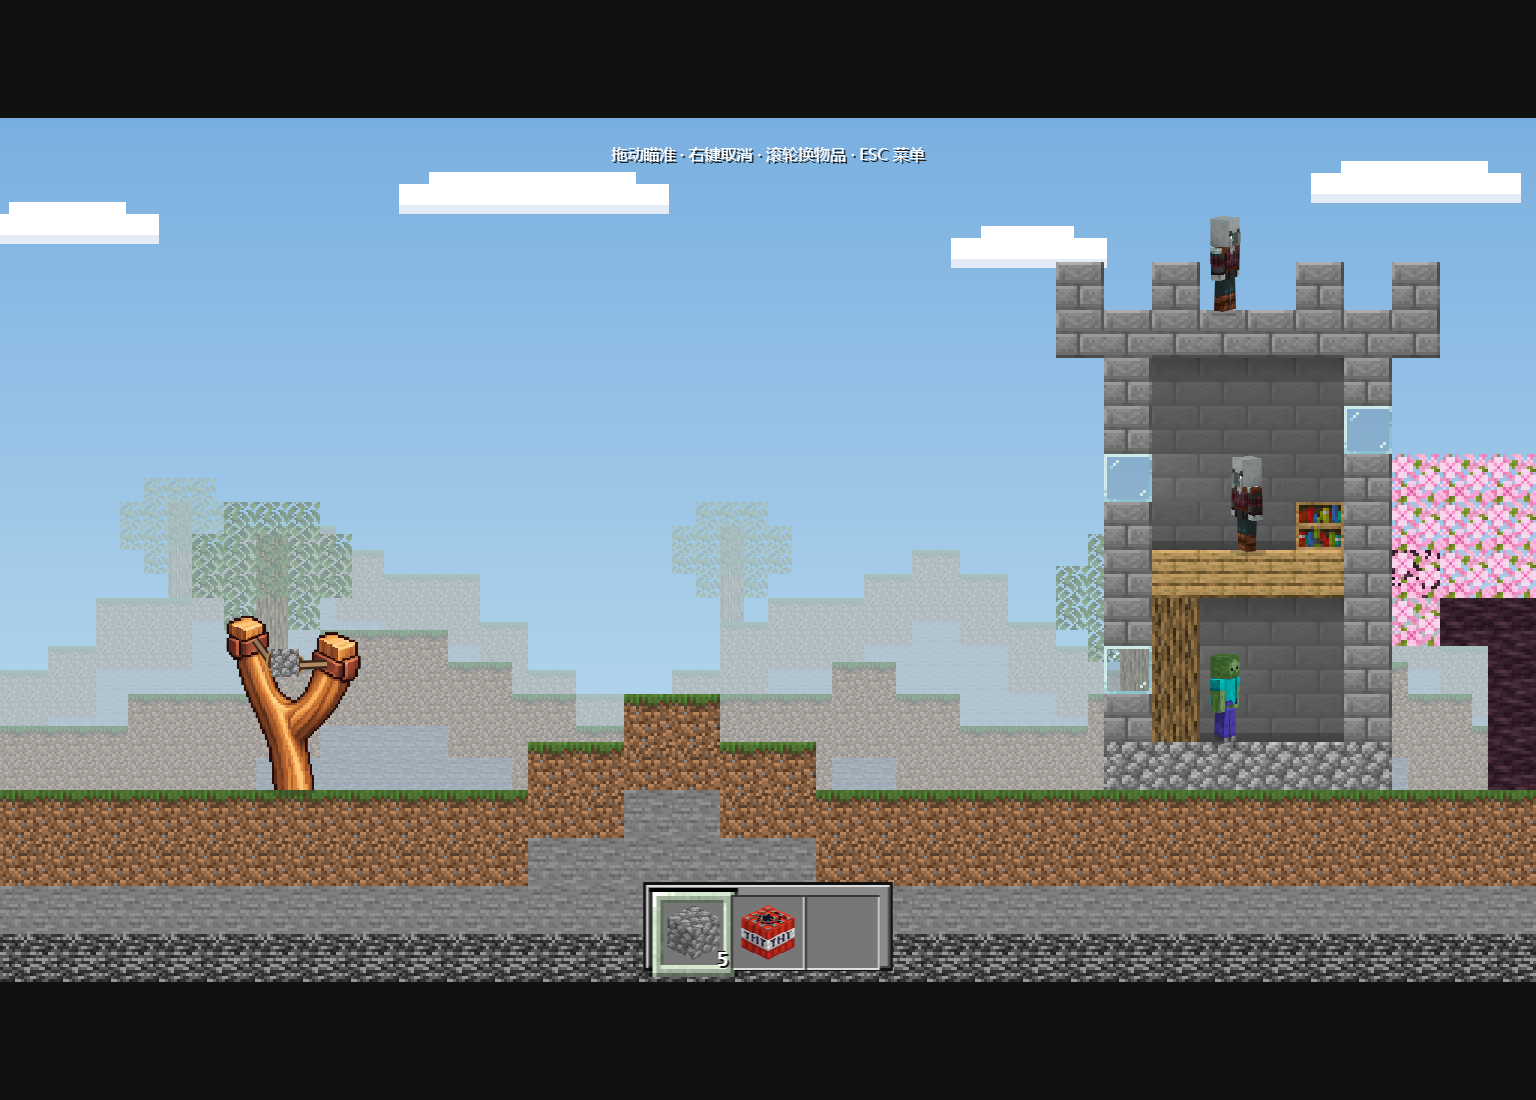
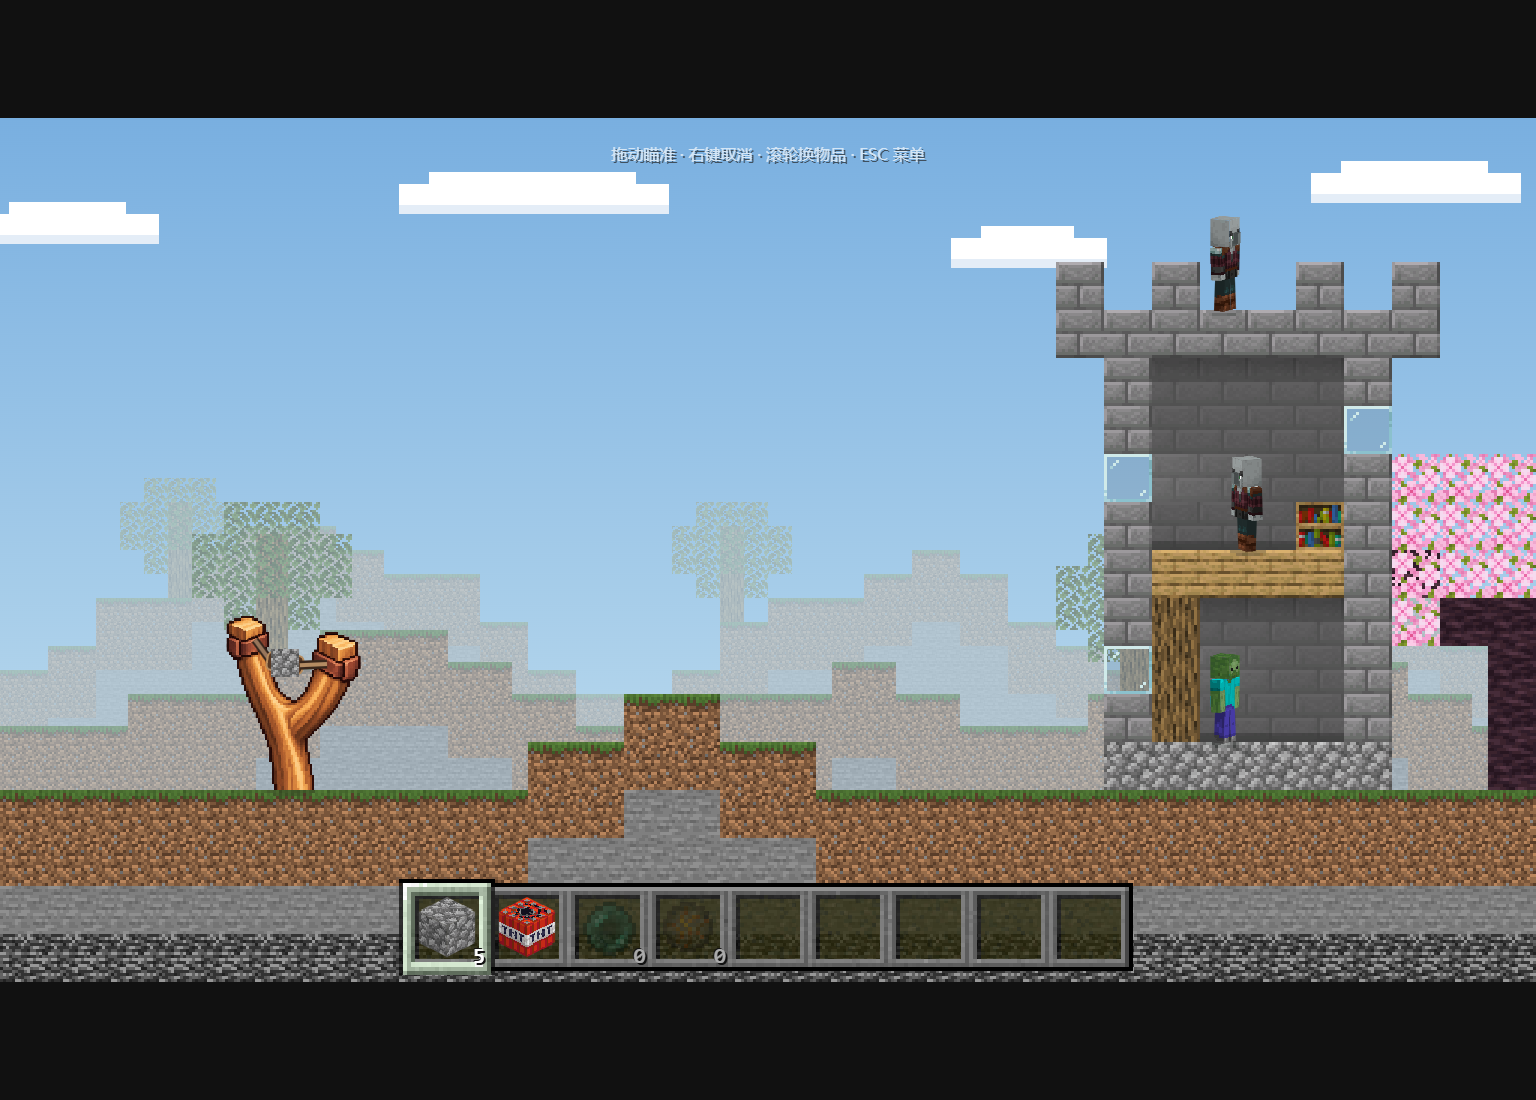
Restore fixed nine-slot hotbar, add paged menus and repair zombie torso UVs

Changed region(s): [[0.25, 0.7727, 0.75, 0.8964], [0.4062, 0.1236, 0.5938, 0.1545], [0.7812, 0.6182, 0.8125, 0.6491]]

diff --git a/style.css b/style.css
@@ -1,4 +1,4 @@
-*{box-sizing:border-box}
+*{box-sizing:border-box}
 html,body{margin:0;width:100%;height:100%;overflow:hidden;background:#111;color:#fff;font-family:"Microsoft YaHei",system-ui,sans-serif}
 button{font:inherit;color:#fff;cursor:pointer;border-radius:0;border:4px solid transparent;border-image:url('assets/gui/button.png') 2 fill / 4px / 0 stretch;text-shadow:2px 2px #303030;background:#777;image-rendering:pixelated}
 button:hover:not(:disabled){border-image-source:url('assets/gui/button_highlighted.png');color:#ffffa0}
@@ -16,20 +16,20 @@ canvas{display:block;width:100%;height:100%;touch-action:none;cursor:crosshair;i
 .ball:hover{background:#fff2}.ball.selected:before{content:"";position:absolute;inset:-10%;background:url('assets/gui/hotbar_selection.png') center/100% 100%;pointer-events:none;image-rendering:pixelated}
 .ball img{width:100%;height:100%;object-fit:contain;image-rendering:pixelated}
 .ball.empty img,.ball.empty .stack-count{visibility:hidden}
+.ball.depleted img{opacity:.38;filter:brightness(.55)}.ball.depleted .stack-count{color:#aaa}
 .stack-count{position:absolute;z-index:3;right:3%;bottom:0;font:700 clamp(10px,1.4cqw,22px)/1 monospace;text-shadow:2px 2px #111,-1px -1px #111}
 .menu-screen,.result{position:absolute;inset:0;z-index:20;display:grid;place-items:center;background:#0009}
 #levelMenu,#leaderboardMenu{background:linear-gradient(#000a,#000a),url('assets/textures/dirt.png') repeat;background-size:auto,64px 64px;image-rendering:pixelated}
-.campaign-panel{width:76%;text-align:center}
+.campaign-panel{width:84%;max-width:1120px;text-align:center}
 h1{margin:0;font-size:clamp(24px,4.2cqw,64px);font-weight:900;letter-spacing:.15cqw;text-shadow:3px 3px #3f3f3f,5px 5px #151515}
 .menu-subtitle,.menu-help{font-size:clamp(9px,1.1cqw,17px);color:#ddd;line-height:1.5;text-shadow:2px 2px #111}
 .menu-subtitle{margin:1cqw 0 2cqw;color:#fff}.menu-help{margin:2cqw 0 0;color:#bbb}
-.level-grid{display:grid;grid-template-columns:1fr 1fr;gap:.7cqw}
-.level-card{min-height:5.2cqw;padding:.55cqw 1cqw;display:grid;grid-template-columns:2.8cqw 1fr auto;align-items:center;gap:.2cqw .6cqw;text-align:left}
-.level-card>span:not(.level-number){grid-column:2 / 4;font-size:clamp(9px,.9cqw,14px);color:#ddd}.level-card .level-number{grid-row:1 / 3}
-.level-card small{grid-column:3;grid-row:1}
-.level-card strong{font-size:clamp(11px,1.45cqw,22px);font-weight:500}.level-card span{font-size:clamp(9px,1.05cqw,16px);line-height:1.5}
-.level-card .level-number{font-family:monospace;font-size:clamp(12px,1.65cqw,25px);color:#ddd}.level-card:disabled .level-number{color:#888}
-.level-card small{font-size:clamp(9px,1.05cqw,16px);text-align:right;color:#ffffa0}.level-card:disabled small{color:#888}
+.level-grid{display:grid;grid-template-columns:repeat(3,minmax(0,1fr));gap:10px}
+.level-card{padding:10px 48px 10px 10px;display:grid;grid-template-columns:25px minmax(0,1fr);grid-template-rows:auto auto;align-items:center;gap:5px 8px;text-align:left}
+.level-card strong{grid-column:2;grid-row:1;min-width:0;overflow:hidden;text-overflow:ellipsis;white-space:nowrap;font-size:clamp(12px,1.25cqw,18px);font-weight:500}
+.level-card .personal-best{grid-column:2;grid-row:2;justify-self:end;margin-right:-38px;font-size:clamp(11px,.95cqw,14px);color:#ffffa0;white-space:nowrap}
+.level-card .level-number{grid-column:1;grid-row:1 / 3;font-family:monospace;font-size:20px;color:#ddd}.level-card:disabled .level-number{color:#888}
+.level-card small{display:none}.level-card:disabled .personal-best{color:#aaa}
 .pause-panel{width:32%;min-width:200px;display:grid;gap:1cqw;text-align:center}
 .pause-panel h2{margin:0 0 2cqw;font-size:clamp(18px,2.5cqw,36px);text-shadow:3px 3px #222}
 .pause-panel button{padding:.7cqw 1.5cqw;font-size:clamp(12px,1.4cqw,20px)}
@@ -39,24 +39,22 @@ h1{margin:0;font-size:clamp(24px,4.2cqw,64px);font-weight:900;letter-spacing:.15
 .reward-icon{display:block;width:clamp(42px,6cqw,90px);height:clamp(42px,6cqw,90px);margin:1.5cqw auto;object-fit:contain;image-rendering:pixelated}
 .result-buttons{display:grid;gap:.8cqw;justify-content:stretch;max-width:26cqw;min-width:150px;margin:2cqw auto 0}.result-buttons button{padding:.5cqw 1cqw;font-size:clamp(10px,1.2cqw,18px)}
 .hidden,[hidden]{display:none!important}
-.inventory{width:19%;max-width:250px}
-.ballbar{grid-template-columns:repeat(3,1fr);aspect-ratio:62/22;padding:4%;background:#8b8b8b;border:3px solid #111;box-shadow:inset 2px 2px #ddd,inset -2px -2px #444}
-.ball{box-shadow:inset 2px 2px #373737,inset -2px -2px #ddd;background:#777}
-.level-card-wrap{position:relative;min-width:0}.level-card-wrap>.level-card{width:100%;height:100%;min-height:5.2cqw;padding-bottom:1.6cqw;grid-template-columns:2.8cqw minmax(0,1fr) auto}
-.level-card strong{min-width:0;overflow:hidden;text-overflow:ellipsis;white-space:nowrap}
-.level-card .personal-best{grid-column:3;grid-row:1;font-size:clamp(9px,.95cqw,15px);color:#ffffa0;white-space:nowrap}
-.level-card-wrap>.level-card>strong{grid-column:2;grid-row:1;text-align:left}
-.level-card-wrap>.level-card>.personal-best{grid-column:3;grid-row:1;text-align:right}
-.level-card-wrap>.level-card>.level-number{grid-column:1;grid-row:1 / 3}
-.level-card small{grid-column:2;grid-row:2;text-align:left;color:#bbb}
-.loadout-info{position:absolute;right:.7cqw;bottom:.35cqw;padding:.1cqw .7cqw;font-size:clamp(10px,.85cqw,14px);z-index:1}
-.loadout-tooltip{display:none;position:absolute;bottom:calc(100% + 4px);left:0;right:0;z-index:40;padding:10px;background:#17101ff5;border:2px solid #5a386e;box-shadow:2px 2px #000;color:#fff;font-size:clamp(11px,1cqw,16px);line-height:1.6;white-space:pre-line;text-align:left;pointer-events:none}
-.show-loadout .loadout-tooltip,.level-card:focus-visible~.loadout-tooltip,.loadout-info:focus-visible~.loadout-tooltip{display:block}
-@media (hover:hover){.level-card-wrap:hover .loadout-tooltip{display:block}}
+.level-card-wrap{position:relative;min-width:0}.level-card-wrap>.level-card{width:100%;height:100%;min-height:76px}
+.loadout-info{position:absolute;right:6px;top:8px;padding:3px 4px;font-size:11px;min-height:28px;z-index:1}
+.loadout-tooltip{display:none;position:absolute;bottom:calc(100% + 5px);right:0;width:max-content;max-width:min(240px,70vw);z-index:40;padding:8px 12px;background:#17101ff5;border:2px solid #5a386e;box-shadow:2px 2px #000;color:#fff;font-size:13px;line-height:1.5;text-align:left}
+.loadout-tooltip>div{display:flex;align-items:center;gap:8px;white-space:nowrap}.loadout-tooltip img{width:24px;height:24px;object-fit:contain;image-rendering:pixelated}
+.show-loadout .loadout-tooltip{display:block}.show-loadout{z-index:30}
+.level-card-wrap:nth-child(-n+3) .loadout-tooltip{top:calc(100% + 5px);bottom:auto}
+.page-controls{display:flex;align-items:center;justify-content:center;gap:16px;margin-top:14px;font-size:14px}.page-controls button{min-width:40px;min-height:32px;padding:0 10px}
+.campaign-panel>h1{font-size:clamp(24px,2.7cqw,40px)}.campaign-panel>.menu-subtitle{margin:6px 0 16px}
+.start-screen{position:absolute;inset:0;z-index:20;cursor:pointer;background:linear-gradient(90deg,#0b1c2522,transparent 70%);touch-action:manipulation;outline-offset:-6px}
+.start-title{position:absolute;left:7%;top:19%;text-align:left;pointer-events:none}.start-title h1{font-size:clamp(36px,6.2cqw,94px);text-shadow:4px 4px #282828,7px 7px #111;letter-spacing:.15cqw}.start-title p{margin:16px 0;font-size:clamp(13px,1.7cqw,24px);text-shadow:2px 2px #222}
+.start-prompt{position:absolute;left:0;right:0;bottom:12%;margin:0;text-align:center;font-size:clamp(14px,1.7cqw,24px);text-shadow:2px 2px #111;animation:start-pulse 2.5s ease-in-out infinite;pointer-events:none}
+@keyframes start-pulse{50%{opacity:.55}}@media(prefers-reduced-motion:reduce){.start-prompt{animation:none}}
 #resultTiming{color:#ffffa0;font-variant-numeric:tabular-nums}
 .fullscreen-feedback{position:fixed;left:10%;right:10%;bottom:18%;z-index:100;padding:12px;background:#202020ef;border:2px solid #888;text-align:center;font-size:14px;line-height:1.6}
 #loadState{position:absolute;inset:0;display:grid;place-items:center;padding:35px;background:#202020;z-index:50;text-align:center;line-height:1.8}#loadState.error{color:#ffd3ce;background:#311c1c}
-@container (max-width:800px){.campaign-panel{width:90%}.level-card{min-height:5.7cqw;padding:.5cqw 1cqw;grid-template-columns:3.2cqw 1.2fr 1.35fr .8fr}.menu-subtitle{margin:.5cqw 0 1.5cqw}.menu-help{margin:1cqw 0 0}.pause-panel{gap:1.5cqw}}
+@container (max-width:800px){.campaign-panel{width:94%}.menu-help{margin:10px 0 0}.pause-panel{gap:1.5cqw}.level-card-wrap>.level-card{min-height:70px;padding:8px 43px 8px 6px;grid-template-columns:20px minmax(0,1fr);gap:4px}.level-card .level-number{font-size:16px}.level-grid{gap:7px}.campaign-panel>.menu-subtitle{margin:4px 0 10px}}
 .menu-actions{display:flex;justify-content:center;gap:1cqw;margin-top:1.4cqw}.menu-actions button{padding:.55cqw 1.4cqw;font-size:clamp(11px,1.1cqw,17px)}
 .dialog-panel{width:min(620px,76%);max-height:92%;overflow:auto;padding:2cqw;display:grid;gap:1cqw;background:#202020;border:4px solid #777;box-shadow:inset 3px 3px #444,inset -3px -3px #080808;text-shadow:2px 2px #111}
 .dialog-panel h2{margin:0;text-align:center;font-size:clamp(18px,2.2cqw,32px)}.dialog-panel p{margin:.2cqw 0;line-height:1.6;font-size:clamp(11px,1.1cqw,16px)}.dialog-panel button{padding:.65cqw;font-size:clamp(13px,1.2cqw,18px)}
@@ -64,8 +62,6 @@ h1{margin:0;font-size:clamp(24px,4.2cqw,64px);font-weight:900;letter-spacing:.15
 .leaderboard-panel{width:min(850px,88%)}.ranking-scroll{overflow:auto;max-height:40cqh}.ranking-scroll table{width:100%;border-collapse:collapse;text-align:center;font-size:clamp(11px,1.1cqw,17px)}.ranking-scroll th,.ranking-scroll td{padding:.65cqw;border-bottom:2px solid #444}.ranking-scroll td:nth-child(2){max-width:17cqw;overflow-wrap:anywhere}.ranking-scroll tr.self{color:#ffff55}.ranking-scroll th{color:#bbb;font-weight:400}
 .touch-controls{display:none;position:absolute;z-index:8;top:max(10px,env(safe-area-inset-top));left:max(10px,env(safe-area-inset-left))}.touch-controls button{min-width:44px;min-height:44px;padding:4px 12px;font-size:15px}.menu-open .touch-controls{display:none!important}
 .rotate-hint{display:none;position:fixed;left:12px;right:12px;bottom:max(24px,env(safe-area-inset-bottom));text-align:center;color:#ddd;font-size:14px;line-height:1.8}.rotate-hint button{display:block;margin:10px auto;padding:10px 20px}
-@media (pointer:coarse){.touch-controls{display:flex}.inventory{width:72%;bottom:max(1.3%,env(safe-area-inset-bottom))}.gamehint{font-size:12px}.menu-help{font-size:11px}.level-card strong{font-size:12px}.level-card small{font-size:10px}.level-card{grid-template-columns:3.2cqw 1fr auto;min-height:5.5cqw}.level-card>span:not(.level-number){font-size:9px}.menu-actions button{min-height:34px}.menu-actions{margin-top:1cqw}}
+@media (pointer:coarse){.touch-controls{display:flex}.inventory{width:72%;bottom:max(1.3%,env(safe-area-inset-bottom))}.gamehint{font-size:12px}.menu-help{font-size:11px}.level-card strong{font-size:12px}.level-card .personal-best{font-size:11px}.menu-actions button{min-height:34px}.menu-actions{margin-top:1cqw}.loadout-info{min-height:34px;top:5px}.page-controls{margin-top:10px;gap:12px}.page-controls button{min-height:34px}}
 @media (pointer:coarse){.gamehint{left:30%;right:3%;top:18px}}
-@media (orientation:portrait) and (pointer:coarse){.rotate-hint{display:block}.viewport.menu-open{width:100vw;height:100dvh}.campaign-panel{width:92%;max-height:96%;overflow:auto}.level-grid{grid-template-columns:1fr}.level-card{min-height:54px;padding:6px 10px;grid-template-columns:28px 1fr auto;gap:2px 8px}.level-card strong{font-size:15px}.level-card>span:not(.level-number){font-size:11px}.level-card .level-number{font-size:18px}.level-card small{font-size:11px}h1{font-size:30px}.menu-subtitle{font-size:14px}.menu-help{font-size:11px}.menu-actions{gap:8px;margin-top:10px}.menu-actions button{padding:8px 12px}.dialog-panel{width:92%;padding:16px;gap:12px}.dialog-panel h2{font-size:22px}.dialog-panel p{font-size:13px}.dialog-panel button{min-height:42px}.ranking-scroll{max-height:48dvh}.ranking-scroll table{font-size:12px}.ranking-scroll td,.ranking-scroll th{padding:8px 3px}.menu-open~.rotate-hint{display:none}}
-@media(pointer:coarse){.inventory{width:27%;max-width:240px}.level-card-wrap>.level-card{min-height:7cqw;padding-bottom:2cqw}.loadout-info{bottom:.3cqw;padding:.1cqw .7cqw;min-height:22px}.level-card .personal-best{font-size:10px}.level-card strong{font-size:12px}}
-@media(orientation:portrait) and (pointer:coarse){.level-card-wrap>.level-card{min-height:66px;padding:6px 8px 23px;grid-template-columns:24px minmax(0,1fr) auto}.loadout-info{right:7px;bottom:3px}.level-card .personal-best{font-size:10px}.fullscreen-feedback{bottom:27%}}
+@media (orientation:portrait) and (pointer:coarse){.rotate-hint{display:block}.viewport.menu-open{width:100vw;height:100dvh}.campaign-panel{width:92%;max-height:96%;overflow:auto;padding:16px 0}.level-grid{grid-template-columns:repeat(2,minmax(0,1fr))}.level-card-wrap>.level-card{min-height:94px;padding:8px 8px 30px;grid-template-columns:20px minmax(0,1fr);gap:4px}.level-card strong{font-size:12px}.level-card .personal-best{font-size:10px}.loadout-info{top:auto;bottom:4px}.level-card .personal-best{margin-right:0}.level-card-wrap:nth-child(3) .loadout-tooltip{top:auto;bottom:calc(100% + 5px)}.campaign-panel>h1{font-size:28px}.menu-actions{flex-wrap:wrap;gap:6px;margin-top:12px}.menu-actions button{padding:8px 10px}.dialog-panel{width:92%;padding:16px;gap:12px}.dialog-panel h2{font-size:22px}.dialog-panel p{font-size:13px}.dialog-panel button{min-height:42px}.ranking-scroll{max-height:48dvh}.ranking-scroll table{font-size:12px}.ranking-scroll td,.ranking-scroll th{padding:8px 3px}.menu-open~.rotate-hint{display:none}.start-title{top:28%}.start-title h1{font-size:44px}.start-title p{font-size:16px}.start-prompt{bottom:28%;font-size:16px}}

diff --git a/index.html b/index.html
@@ -7,8 +7,9 @@
  <div class="gamehint faded" id="gamehint"></div>
  <nav class="touch-controls" aria-label="触屏操作"><button id="touchPause">暂停菜单</button></nav>
  <div class="inventory" id="inventory"><div id="ballbar" class="ballbar" aria-label="物品栏"></div></div>
+ <section id="startScreen" class="start-screen hidden" aria-label="开始游戏" role="button" tabindex="0"><div class="start-title"><h1>拉满的石</h1><p>四种弹药 · 十关挑战</p></div><p class="start-prompt">点击任意位置开始游戏</p></section>
  <section id="levelMenu" class="menu-screen hidden" aria-label="选关">
-  <div class="campaign-panel"><h1>拉满的石</h1><p class="menu-subtitle">主世界 · 选择关卡</p><div id="levelCards" class="level-grid"></div><div class="menu-actions"><button id="profileBtn">设置昵称</button><button id="leaderboardBtn">排行榜</button><button id="fullscreenBtn">全屏</button></div><p class="menu-help" id="menuHelp">拖动发射 · 右键取消 · 滚轮换物品 · ESC 菜单</p><small id="cloudState" hidden role="status"></small></div>
+  <div class="campaign-panel"><h1>选择关卡</h1><p class="menu-subtitle">主世界</p><div id="levelCards" class="level-grid"></div><div class="page-controls"><button id="prevPage" aria-label="上一页">←</button><span id="pageStatus">1 / 2</span><button id="nextPage" aria-label="下一页">→</button></div><div class="menu-actions"><button id="homeBtn">主界面</button><button id="profileBtn">设置昵称</button><button id="leaderboardBtn">排行榜</button><button id="fullscreenBtn">全屏</button></div><p class="menu-help" id="menuHelp">拖动发射 · 右键取消 · 滚轮换物品 · ESC 菜单</p><small id="cloudState" hidden role="status"></small></div>
  </section>
  <section id="pauseMenu" class="menu-screen hidden" aria-label="暂停菜单"><div class="pause-panel"><h2>游戏暂停</h2>
   <button id="resume">继续游戏</button><button id="restart" aria-label="↻ 重开">重新挑战</button><button id="levelMenuBtn">选择关卡</button><button id="soundToggle">音效：开</button><button id="musicToggle">音乐：开</button>

diff --git a/README.md b/README.md
@@ -17,10 +17,11 @@ Windows 玩家可下载[0.11.0 历史试玩包](https://github.com/qcya/stone-at
 ## 操作与闯关
 
 - 拖住弹药调整方向和力度，松开发射；可向后、轻抛。右键取消；手机拉弓时用另一根手指轻点任意位置取消。
-- 物品栏固定三格；滚轮或数字键 1–3 选择本关提供的弹药，手机直接点选。触屏保持可见，电脑闲置后自动隐藏。
+- 首页展示游戏场景，点击任意位置（或 Enter／空格）进入选关；首次游玩先设置昵称。选关每页六关，可翻页，保留个人最快时间。
+- 原版九格物品栏，数字键 1–9／滚轮切换；前四格固定为圆石、TNT、末影珍珠、烈焰弹。已解锁但本关未配或已用完的道具保留暗图标与数量 0；未解锁和预留格为空。触屏保持可见，电脑闲置后自动隐藏。
 - ESC / 手机左上角“暂停菜单”暂停；菜单可重开和选关。R 重开当前关。切到其他应用自动暂停。
 - 选关“全屏”优先调用 Toy App 的横屏沉浸接口，再尝试浏览器全屏与方向锁定；不支持时显示手动横屏提示。真实手机仍需验收。
-- 通关页显示本次用时和个人最快；选关卡片右侧显示个人最快，道具改为鼠标悬停／点按提示。总榜保持十关全通后上榜，只展示各关最快用时之和。
+- 通关页显示本次用时和个人最快；选关卡片右侧显示个人最快，只有点击“道具”才展开本关弹药短清单，再点一次或点空白处关闭。总榜保持十关全通后上榜，只展示各关最快用时之和。
 - 第一、二、三关分别解锁 TNT、末影珍珠、烈焰弹。旧五关全通存档会解锁第六关。
 - 清场后等待死亡粒子消散再显示通关；所有弹药和正在进行的攻击结束后才判失败。
 - 默认低音量循环 C418《Sweden》，第一次点击后开始播放；暂停菜单可独立开关音乐，偏好自动保存，切后台自动暂停音乐。
@@ -38,7 +39,7 @@ Windows 玩家可下载[0.11.0 历史试玩包](https://github.com/qcya/stone-at
 | 9 幽深洞窟 | 6 | 3 | 2 | 0 |
 | 10 古城最后防线 | 7 | 4 | 2 | 0 |
 
-解锁并不代表每关都会配发。当前每关固定配置最多三种弹药，圆石为主，第八关为无圆石挑战；未实现自由选卡或升级系统。
+解锁并不代表每关都会配发。弹药数量按关卡配置，圆石为主，第八关为无圆石挑战；没有自由选卡或升级系统。
 
 ## 武器与敌人
 

diff --git a/docs/TOY.md b/docs/TOY.md
@@ -1,6 +1,18 @@
 # B 站 Toy 适配
 
-## 个人计时、三格配给与全屏更新 — 2026-10-18
+## 当前试玩：主界面、紧凑选关、九格与僵尸腰部 — 2026-10-18
+
+用户选择“先试玩，暂不提交”，后续又调整了菜单与物品栏，因此下方 B6cw4GTK 为上一轮预览，不包含本节修改，不应作为最新版本提交。本轮不上传、不提交 Toy 审核，也不改动视频。
+
+新增真实游戏场景主界面，点击任意位置进入；首次玩家先设置昵称，再进入选关。选关每页六关、三列两行（手机竖屏两列），翻页支持后续扩关。个人最快保留，“道具”仅点击才展开简短弹药清单，移除整张卡片悬停触发和长介绍。
+
+恢复原版九格 HUD：前四格固定圆石／TNT／末影珍珠／烈焰弹；已解锁但未配发或耗尽的道具保留暗图标与 0，未解锁和预留格为空。数字键1–9、滚轮和触屏直接选择固定位置，不采用自由选卡。
+
+僵尸躯干误用掠夺者的6像素厚度，导致UV向下偏移两行，采到皮肤y32–33的透明区域，形成腰部空隙；修回僵尸8×12×4模型及对应UV。掠夺者与监守者模型保持原规格。材质/几何回归覆盖多个步态及朝向，对比图见 `evidence/zombie-waist-comparison.png`。
+
+152 项单元与 40 项完整浏览器检查通过，最终布局追加 6 项回归通过；另检查手机横屏、竖屏弹层。家用服务目录已更新，线上实测主界面、九格、两条历史成绩正常，无资源错误，未重启后台、未替换玩家数据。
+
+## 上一轮：个人计时、三格配给与全屏更新 — 2026-10-18
 
 最终方案不增加单关榜或玩家明细：通关显示本次及个人最快用时；选关显示个人最快，道具悬停／点按查看。总榜仍在十关全通后提交各关最快时间之和，最多 100 人。既有青春沿岸与星海_Astra 记录保留。
 
